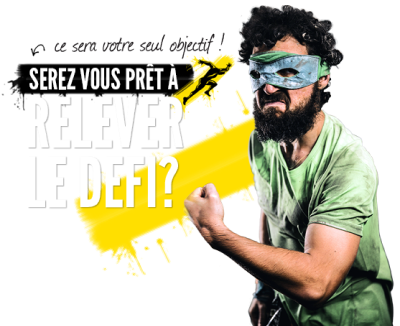
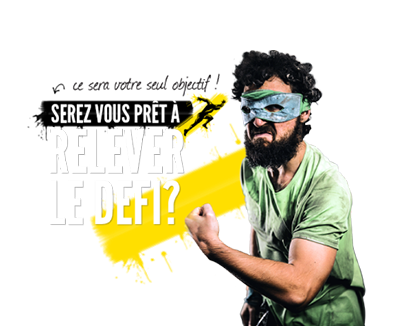
Responsive layout adjustements

diff --git a/components/event/TitleSingleEvent.js b/components/event/TitleSingleEvent.js
@@ -19,15 +19,20 @@ function TitleSingleEvent( {event} ) {
     <div className='grid grid-cols-1 gap-4 text-center sm:grid-cols-4 sm:text-left'>
       
       <div className='col-span-1'>
+
           <div className='flex-col gap-10 items-center sm:items-start h-full w-100px pl-8 -mt-20 '>
          
-          <div className='mx-auto flex justify-center'><Image className='rounded-md' src="/images/events/event-thumb1.jpg" width={270} height={346}/></div>
+          <div className='mx-auto flex justify-center'>
+            <Image className='rounded-md' src="/images/events/event-thumb1.jpg" width={270} height={346}/>
+          </div>
           
-          <div className='mt-4'> <span className='yellow pr-4'>Date: </span><span>{formatDate(event.date)}</span></div>
-          <div className='mt-2'> <span className='yellow pr-4'>Horaire: </span><span>{event.start_hour}</span></div>
-          <div className='mt-2'> <span className='yellow pr-4'>Lieu: </span><span>{event.location} </span></div>
-
+          <div className='flex flex-col justify-center items-center'>
+            <div className='mt-4'> <span className='yellow pr-4'>Date: </span><span>{formatDate(event.date)}</span></div>
+            <div className='mt-2'> <span className='yellow pr-4'>Horaire: </span><span>{event.start_hour}</span></div>
+            <div className='mt-2'> <span className='yellow pr-4'>Lieu: </span><span>{event.location} </span></div>
+          </div>
         </div>
+
       </div>
 
       <div className='col-span-3'>

diff --git a/components/common/Banner.js b/components/common/Banner.js
@@ -14,12 +14,15 @@ function Banner(props) {
 
   return (
    
-    <div className={styles.container}>
-      <div className='grid grid-cols-1 sm:grid-cols-3 gap-4 pr-1 h-96 sm:h-80 sm:m-1 mb-20 sm:pt-0 select-none'>
-        <div className='sm:pt-11 sm:ml-10 sm:col-span-1 flex sm:justify-end items-end sm:h-full mt-14 lg:mt-0 sm:mt-0 '>      {sliderOn && <Image src={`/images/events/${props.imageBanner}`} width={400} height={326}/> }
-        </div>
+    <div className='flex justify-center items-end h-full rounded-t-lg bg-cover bg-no-repeat' style={{ backgroundImage: "url('/images/slide1.jpg')" }}>
+      <div className='grid grid-cols-1 sm:grid-cols-3 pr-1 sm:pt-0 select-none '>
+
+      <div className='sm:col-span-1 flex flex-col justify-end sm:justify-end items-end'>
+      {sliderOn && <Image src={`/images/events/${props.imageBanner}`} width={400} height={326} />}
+    </div>
+
         {/* desktop */}
-        <div className='hidden sm:visible sm:col-span-2 sm:flex justify-center text-center items-center flex-col mb-20 sm:mb-0'>
+        <div className='hidden sm:visible sm:col-span-2 sm:flex justify-center text-center items-center flex-col sm:mb-0'>
           <div className='drop-shadow-md text-4xl uppercase font-extrabold'>{props.title}</div>
           <div className='drop-shadow-md text-2xl uppercase font-medium'>{props.subtitle}</div>
         </div>

diff --git a/components/pages/FaqComponentPage.js b/components/pages/FaqComponentPage.js
@@ -17,11 +17,11 @@ function FaqComponentPage() {
         
         <main className="container mx-auto sm:px-6 lg:px-8">
           <Nav currentNavItem="FAQ"></Nav>
-          <Banner title="F.A.Q" subtitle="questions / réponses" sliderOn={false} imageBanner="info5.png"></Banner>
-          <div className="-mt-20"><Faq/></div>
+          <Banner title="F.A.Q" subtitle="questions / réponses" sliderOn={true} imageBanner="info5.png"></Banner>
+          <div><Faq/></div>
         </main>
        
-        <Footer></Footer>
+        <div className='-mt-40'><Footer ></Footer></div>
     </div>
 
   );

diff --git a/components/contact/Contact.js b/components/contact/Contact.js
@@ -5,7 +5,7 @@ import ContactForm from './ContactForm';
 function Contact() {
 
   return (
-    <div className="relative isolate overflow-hidden bg-black px-6 py-24 sm:py-32 lg:overflow-visible lg:px-0">
+    <div className="relative isolate overflow-hidden px-6 py-24 sm:py-32 lg:overflow-visible lg:px-0">
 
 
 
@@ -22,7 +22,8 @@ function Contact() {
         </div>
       </div>
       <div className="-ml-12 -mt-12 p-12 lg:sticky lg:top-4 lg:col-start-2 lg:row-span-2 lg:row-start-1 lg:overflow-hidden">
-    
+
+       
         <ContactForm></ContactForm>
 
       </div>

diff --git a/components/pages/ContactComponentPage.js b/components/pages/ContactComponentPage.js
@@ -13,12 +13,12 @@ function ContactComponentPage() {
         <main className="container mx-auto sm:px-6 lg:px-8">
          
         <Nav currentNavItem="Contact"></Nav>
-          <Banner title="contact" subtitle="à votre écoute" sliderOn={false}></Banner>
+          <Banner title="contact" subtitle="à votre écoute" sliderOn={true} imageBanner="info8.png"></Banner>
           <Contact></Contact>
         
         </main>
        
-        <Footer></Footer>
+        <div className='-mt-40'><Footer ></Footer></div>
     </div>
 
   );

diff --git a/components/pages/PresentationComponentPage.js b/components/pages/PresentationComponentPage.js
@@ -18,10 +18,11 @@ function PresentationComponentPage() {
           <Nav currentNavItem="Présentation"></Nav>
           <Banner title="la frappadingue c'est" subtitle="la référence de la course à obstacles" sliderOn={true} imageBanner="info7.png"></Banner>
           <Stats></Stats>
-          <Pricing></Pricing>
+          <div className='m-10'><Pricing ></Pricing></div>
         </main>
-       
-        <Footer></Footer>
+
+        <div className='-mt-40'><Footer ></Footer></div>
+        
     </div>
 
   );

diff --git a/components/Volunteer.js b/components/Volunteer.js
@@ -7,7 +7,7 @@ import Link from "next/link";
 function Volunteer() {
 
   return (
-    <div className="relative isolate overflow-hidden bg-black px-6 py-24 sm:py-32 lg:overflow-visible lg:px-0">
+    <div className="relative isolate overflow-hidden px-6 py-24 sm:py-32 lg:overflow-visible lg:px-0">
 
 
 

diff --git a/components/pages/BenevolesComponentPage.js b/components/pages/BenevolesComponentPage.js
@@ -21,7 +21,7 @@ function BenevolesComponentPage() {
           <Volunteer></Volunteer>
         </main>
        
-        <Footer></Footer>
+        <div className='-mt-40'><Footer ></Footer></div>
     </div>
 
   );

diff --git a/components/pages/MediasComponentPage.js b/components/pages/MediasComponentPage.js
@@ -16,7 +16,7 @@ function MediasComponentPage() {
           <Photos></Photos>
         </main>
        
-        <Footer></Footer>
+        <div className='-mt-40'><Footer ></Footer></div>
     </div>
 
   );

diff --git a/components/pages/CoursesComponentPage.js b/components/pages/CoursesComponentPage.js
@@ -30,7 +30,7 @@ function CoursesComponentPage() {
 
         </main>
        
-        <Footer></Footer>
+        <div className='-mt-40'><Footer ></Footer></div>
     </div>
 
   );

diff --git a/components/Home.js b/components/Home.js
@@ -46,7 +46,7 @@ function Home() {
           
         </main>
        
-        <Footer></Footer>
+        <div className='-mt-40'><Footer ></Footer></div>
     </div>
 
    
